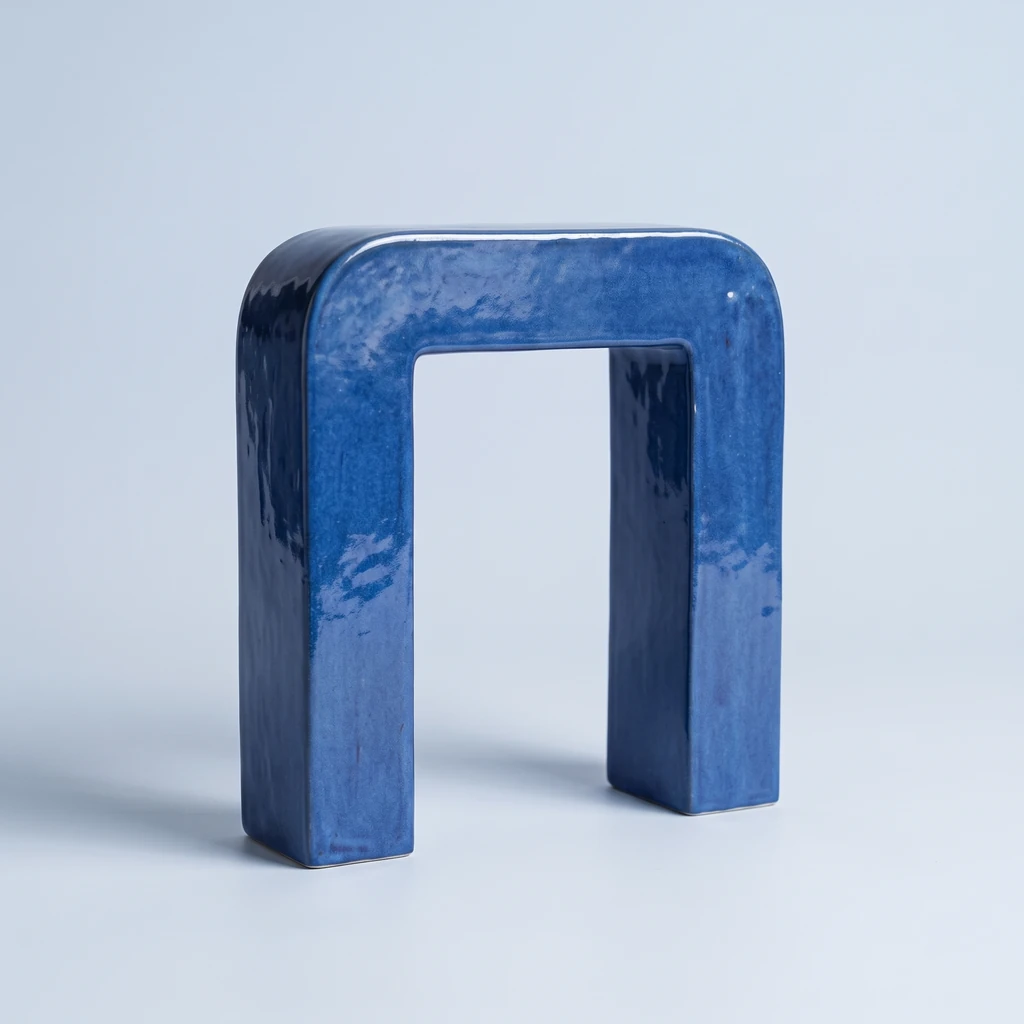
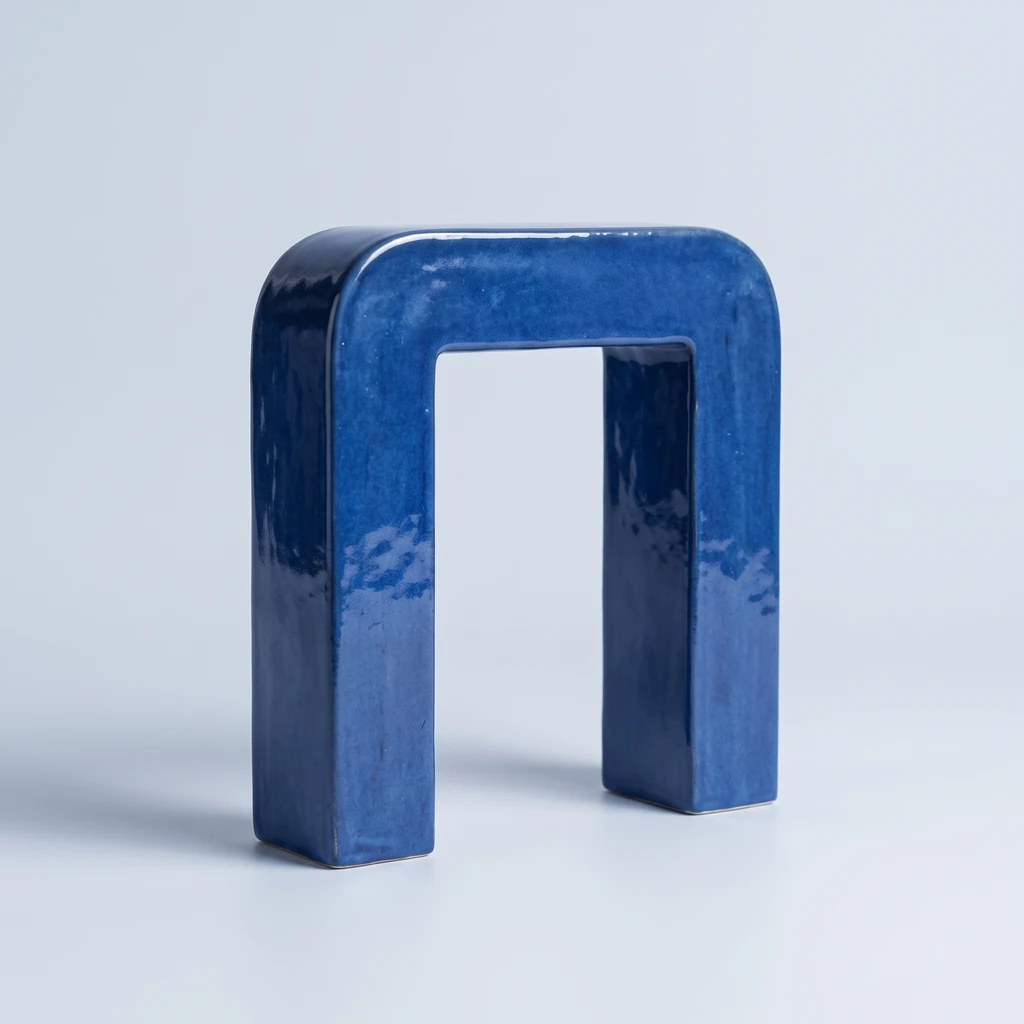
fix(web): align Link with Plump and correct the material light direction
Review found that Link was still photographed frontally with the light
from the left, and that the docs described Plump's key light as upper
left although its shadow falls left. Regenerate Link from Plump's card
and the silhouette only, since its previous card kept pulling the result
back to that view, and switch Carrel to a clean candidate without the
signature-like mark on its left leg.

Describe the shared setup as a key light from the upper right with the
shadow falling left, note the light wording in Time's record, record
Link's candidates and spend, and keep the archive location out of the
public records as MADE.md asks.

Changed region(s): [[0.2188, 0.2188, 0.7812, 0.875], [0.75, 0.75, 0.7812, 0.7812], [0.6875, 0.4062, 0.7188, 0.4375]]

diff --git a/apps/web/MADE.md b/apps/web/MADE.md
@@ -90,7 +90,7 @@ Generated material and campaign images interpret the geometric reference. They a
 
 ## Image and motion workflow
 
-1. **Establish the object.** Prepare the canonical SVG and, when offering a 3D viewer, its scene and GLB. Use the silhouette and chosen material as the reference for the square artwork and campaign. Check holes, connecting bridges, thickness and orientation before selecting an image. Generate the square artwork with Plump's material card as the backdrop, light, framing and turn reference, the chosen material as the material reference and the silhouette as the shape reference, as recorded for Time and Carrel.
+1. **Establish the object.** Prepare the canonical SVG and, when offering a 3D viewer, its scene and GLB. Use the silhouette and chosen material as the reference for the square artwork and campaign. Check holes, connecting bridges, thickness and orientation before selecting an image. Generate the square artwork with Plump's material card as the backdrop, light, framing and turn reference and the silhouette as the shape reference, as recorded for Time, Link and Carrel. A material reference photographed from another angle can pull the result back to that angle and light, so compare the turn and the shadow side with Plump before selecting.
 2. **Select the landscape photograph.** Keep the subject and object toward the left, with quiet scenery on the right for live text and a clear top edge for navigation. The current image pipeline used OpenRouter `google/gemini-3.1-flash-image`. Model choice may change; record what actually produced the selected image.
 3. **Compose the portrait from the selected source.** Preserve identity, clothes, object, lighting and setting. Leave roughly the upper 27% quiet for the title, keep the subject and object inside the central 80% of the width, and allow low-detail space near the bottom for controls. Treat these as composition targets and verify the real `object-fit: cover` crop at 320px. A center crop of the landscape is not the mobile deliverable.
 4. **Grade after composition is selected.** Retain ungraded source PNGs. Use [`grade-made-photo.py`](../../scripts/grade-made-photo.py) for the established softness, bloom, lifted blacks and seeded grain. Export its graded PNG as WebP with quality 90 and method 6. Never feed an already graded image through the finish again.

diff --git a/apps/web/public/made/identities/README.md b/apps/web/public/made/identities/README.md
@@ -7,7 +7,7 @@ For new products, follow the [Made publishing guide](../../../MADE.md) and [prod
 - Each product owns a geometric SVG. Products with `model: true` embed the same outline in their Plump `scene.json` (v1) and exported GLB. Carrel does not offer a 3D model. The parent zyx mark remains the site signature.
 - Plump uses chrome and volume, Time uses amber glass and light, Link uses vermilion silicone and connection, and Carrel uses cobalt ceramic and a sheltered workspace.
 - Material and campaign WebPs are AI art directed images generated with `google/gemini-3.1-flash-image` through OpenRouter. They interpret the supplied outlines; they are not screenshots of the renderer or photographs of actual products or customers.
-- Material cards share one studio setup, taken from Plump's card: a pale blue-gray seamless backdrop, upper-left key light, soft contact shadow, centered framing and a left three-quarter turn that shows the object's left side. Time and Carrel were regenerated to this setup on October 3, 2026, with Plump's card as the setup reference, the previous card as the material reference and the SVG silhouette as the shape reference. Link already matched. The generation records list the references, prompts, candidates and spend.
+- Material cards share one studio setup, taken from Plump's card: a pale blue-gray seamless backdrop, a soft key light from the upper right with the contact shadow falling left, centered framing and a left three-quarter turn that shows the object's left side. Time, Link and Carrel were regenerated to this setup on October 3, 2026, with Plump's card as the setup reference and the SVG silhouette as the shape reference. Time and Carrel also used their previous cards as material references; Link used a written material description, because its previous card pulled the result back to a frontal, left-lit view. The generation records list the references, prompts, candidates and spend.
 - Desktop campaigns are 1920 × 1080. Mobile campaigns are separately composed 1080 × 1920 images.
 - The live model viewer loads `@workspace/3d`, the same renderer as Plump. It loads lighting from Plump only after the viewer opens. Its lighting and geometry are distinct from the generated campaign images.
 
